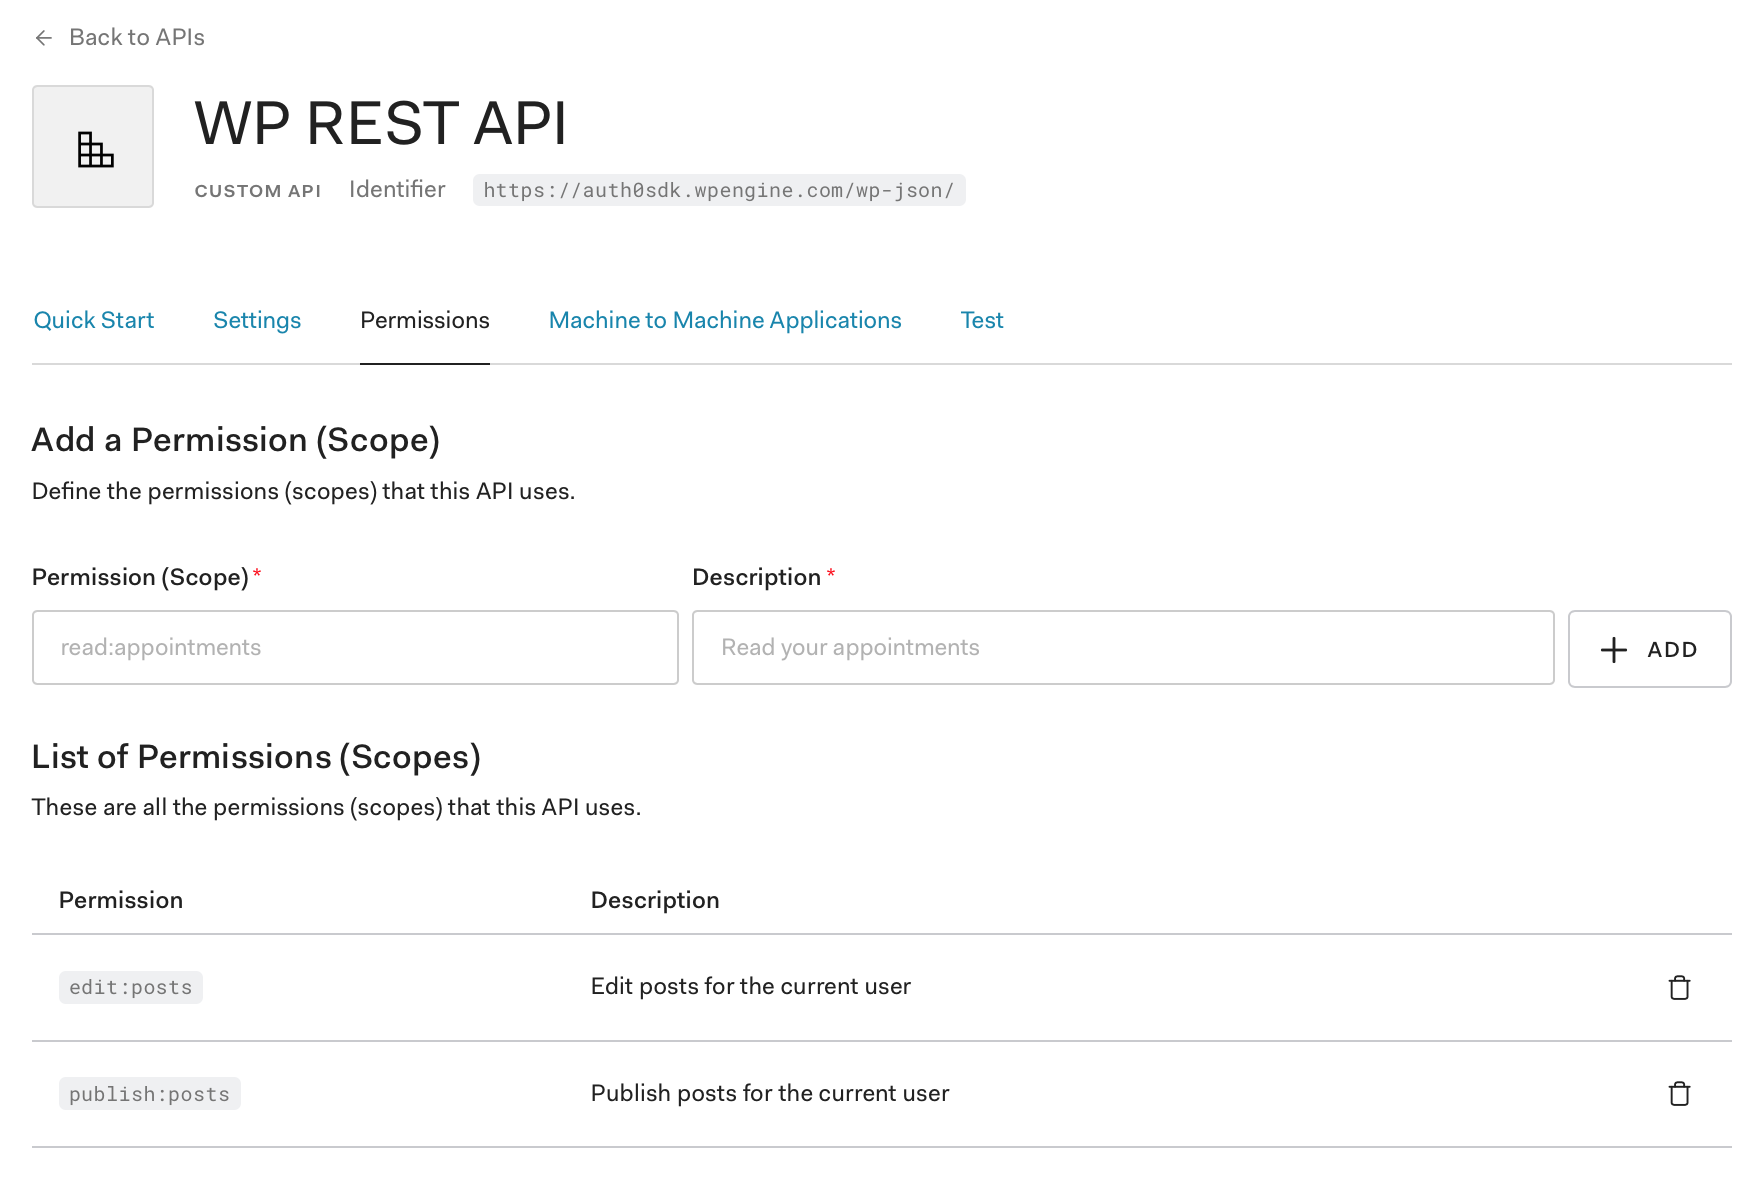
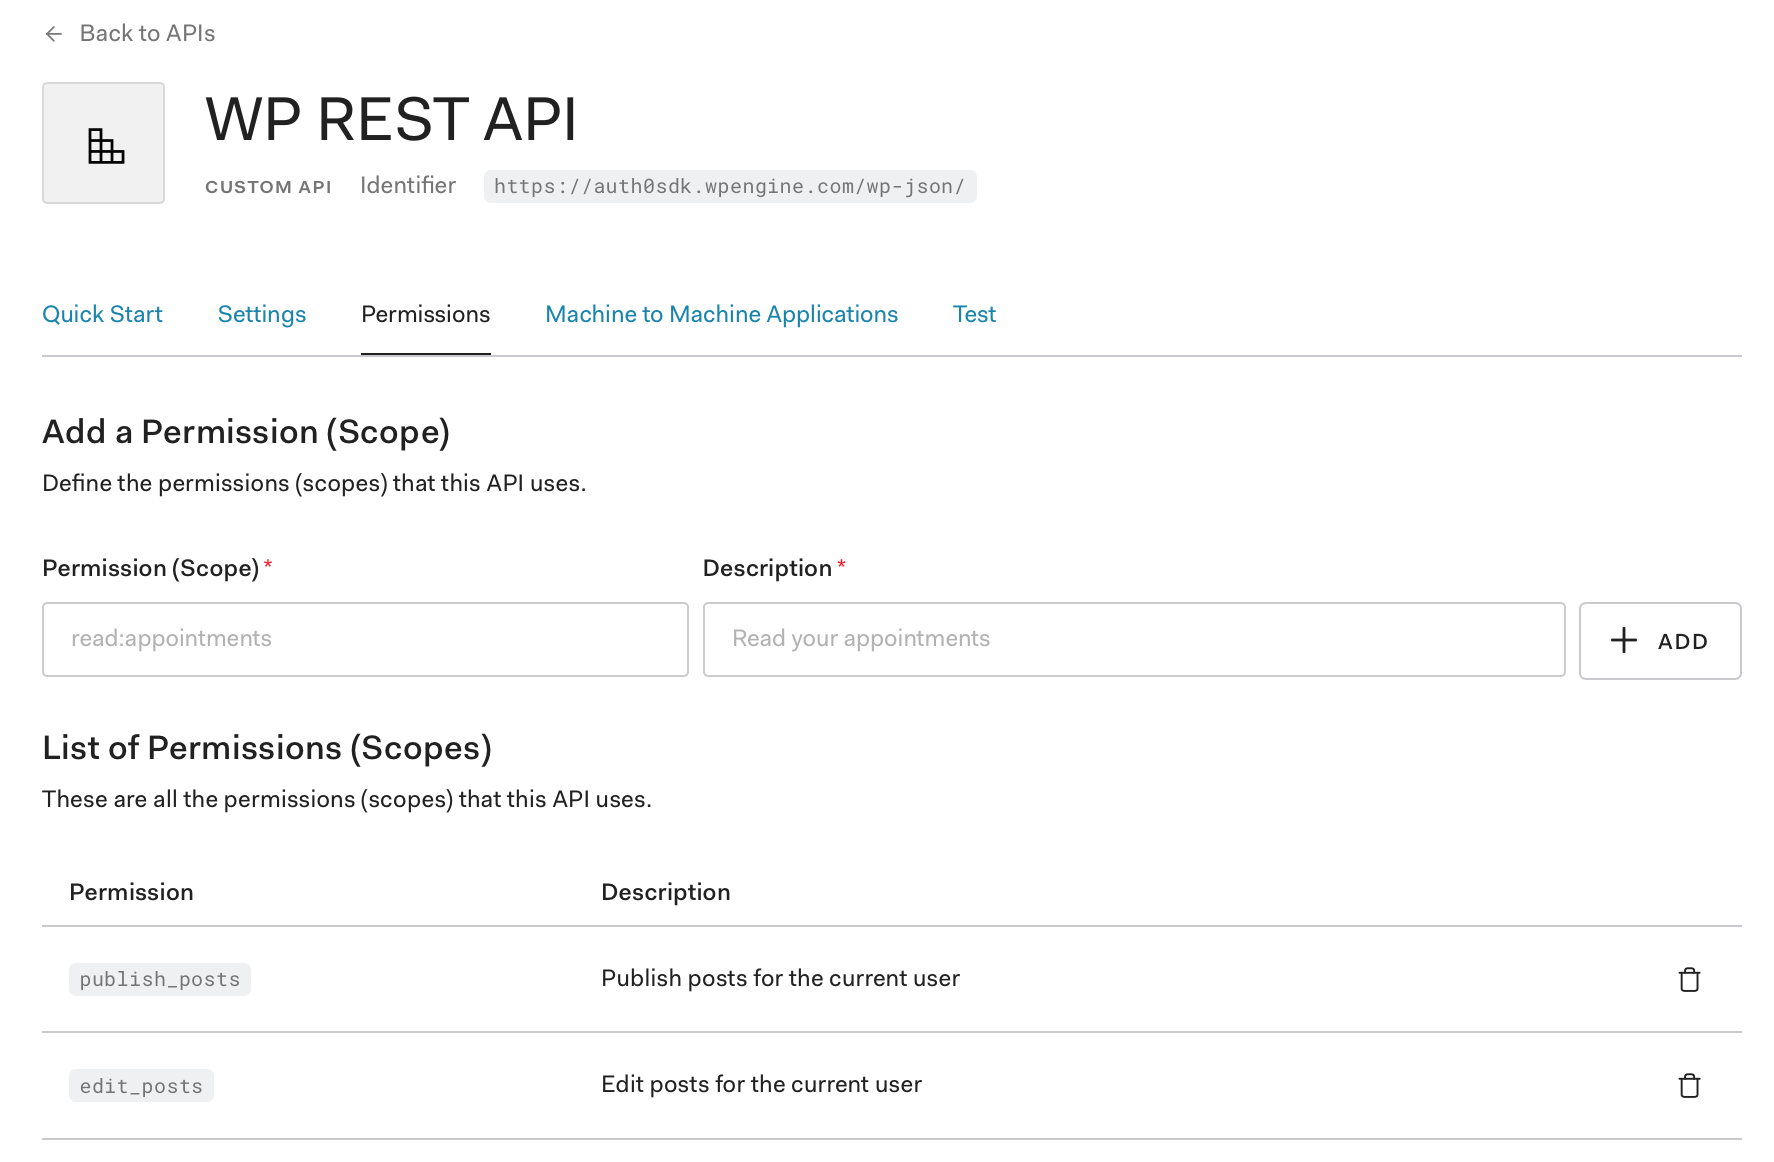
Progress on WP REST API post

diff --git a/content/post/2020/0000-00-00-auth0-plus-wp-json-api.md b/content/post/2020/0000-00-00-auth0-plus-wp-json-api.md
@@ -107,6 +107,7 @@ I'm going to reference the Auth0 documentation here so I don't duplicate helpful
 
 - **Name**: Choose something descriptive
 - **Identifer**: Use your WP API base URL like `https://auth0sdk.wpengine.com/wp-json/`
+- **Signing Algorithm**: Set this to "HS256"
 
 Once you create the API, click on the **Settings** tab, scroll down, and turn on **Allow Offline Access** (we'll talk about that later). 
 
@@ -114,8 +115,8 @@ Now click on the **Permissions** tab and we're ready to add the WordPress action
 
 In this example we're going to allow creating posts under the current user's account and editing them, so we'll add:
 
-- `publish:posts` with a description of "Publish posts for the current user"
-- `edit:posts` with a description of "Edit posts for the current user"
+- `publish_posts` with a description of "Publish posts for the current user"
+- `edit_posts` with a description of "Edit posts for the current user"
 
 ![WP REST API setup in Auth0](/_images/2020/12/wp-rest-api-auth0-setup.png)
 
@@ -145,25 +146,6 @@ We're not going to do all that, instead I'll direct you to Auth0 documentation t
 
 We do, however, need a way to get an access token so we can test that the WP REST API is being protected correctly. To do that, we'll create a throw-away testing application that can get access tokens directly and a throw-away user to simulate a login. 
 
-1. [Get a Management API token for testing](https://auth0.com/docs/tokens/management-api-access-tokens/get-management-api-access-tokens-for-testing)
-2. Click **Set API Token** on the [Management API Explorer page](https://auth0.com/docs/api/management/v2) and enter that token
-3. Go to the [Create Client](https://auth0.com/docs/api/management/v2#!/Clients/post_clients) endpoint on that page and send the following:
-
-```json
-{
-  "name": "WP REST API Testing Application",
-  "jwt_configuration": {
-    "alg": "RS256",
-    "lifetime_in_seconds": 36000
-  },
-  "token_endpoint_auth_method": "none",
-  "app_type": "regular_web",
-  "grant_types": [
-    "password"
-  ]
-}
-```
-
 {% warning %}
 The application we're creating here is for testing purposes only. If you create this application as part of the tutorial here, delete it when you're through!
 {% endwarning %}
@@ -190,7 +172,7 @@ Once this is complete, you should be able to send your email and password plus a
 ❯ curl --request POST \
   --url 'https://YOUR_DOMAIN/oauth/token' \
   --header 'content-type: application/x-www-form-urlencoded' \
-  --data 'grant_type=password&scope=publish:posts edit:posts&username=EMAIL_ADDRESS&password=PASSWORD&audience=API_IDENTIFIER&client_id=CLIENT_ID'
+  --data 'grant_type=password&scope=publish_posts edit_posts&username=EMAIL_ADDRESS&password=PASSWORD&audience=API_IDENTIFIER&client_id=CLIENT_ID'
 
 {"access_token": "eyJhbG...eyJpc3M....QyRI9Lp...",
 "scope": "edit:posts publish:posts",
@@ -201,12 +183,50 @@ Once this is complete, you should be able to send your email and password plus a
 If you're getting an error of any kind back here, check all your values in the curl command as well as your [Auth0 tenant logs](https://manage.auth0.com/#/logs).
 
 {% info %}
-What we're doing here is called a Resource Owner Password grant; we're trading a username and password for tokens. This is something that's typically reserved for legacy applications, for a number of reasons. For more information on this, see <a href="https://auth0.com/docs/videos/learn-identity-series/desktop-and-mobile-apps#wistia_dq3c4pz9lb?time=1580">this video</a>.
+What we're doing here is called a Resource Owner Password grant; we're trading a username and password for a acccess token. This is something that's typically reserved for legacy applications, for a number of very good reasons, hence the warnings. If you'd like to learn a little more about these good reasons, <a href="https://auth0.com/docs/videos/learn-identity-series/desktop-and-mobile-apps#wistia_dq3c4pz9lb?time=1580">see this video segment</a>.
 {% endinfo %}
 
 Again, all of these steps are to create an application that can generate access tokens for testing. When this system is put live, you'll need to request access tokens during login from the applications that want to call the WP REST API.
 
-## Access token validation in WP
 
-...
- 
+## Manage WP users with Auth0
+
+In order for this system to work, we'll need the users in WordPress tied to users in Auth0. Thankfully we have a solution for that, the [Login by Auth0 plugin](https://wordpress.org/plugins/auth0/). Follow the [installation instructions](https://auth0.com/docs/cms/wordpress-plugin/install-login-by-auth0) (scroll down to the **Manual setup** section to connect the site to an existing database connection like the one we used above) and test the login process to make sure authentication is working. 
+
+Once this is working, logins are handled with Auth0 and, on the first successful login/registration, the Auth0 user ID will be stored in the users metadata. We'll use this in the next part of the tutorial to make a call on a user's behalf.
+
+The last step of this configuration is making sure we always have a user in WordPress if we have one in Auth0. This will case the case where a user logs into the external application first and then needs to make changes in WordPress. Without a WordPress user, that would not be possible. 
+
+Go to **Auth0 > Settings > Advanced** tab in the WordPress admin. Turn on **User Migration Endpoints** and click **Save Changes**. You will see a migration token appear. Leave this tab open so we can use it later. 
+
+TODO: Add Rule to look for or add user
+
+
+## Access token authorization in WP
+
+We have our API modelled in our Authorization Server, Auth0, and we're able to get access tokens for that API, and users in WordPress are being managed with Auth0. Now we need to enable the API to receive these access tokens, validate them, and make decisions for protected routes. 
+
+To do all of this, we're going to use the core WordPress filter `determine_current_user` to look for a token in the request headers of a WP REST API call and decide whether or not the call should be allowed based on the call being made and in the information contained in the signed access token.
+
+The access token generated by Auth0 and sent by the external app will contain two values that will help us figure out whether this call should be accepted or not:
+
+- The Auth0 user ID in the `sub` claim
+- The permissions consented to in the `scope` claim
+
+You can see these values in the token you generated above by dropping it into [jwt.io](https://jwt.io/) and looking at the **Payload** section on the right.
+
+Now our job during authorization becomes a bit more clear:
+
+1. Check for a `sub` claim
+2. Use that value to find an associated WordPress user
+3. Make sure the permission(s) for the API call being made is contained in the `scope` claim
+4. Make sure the user is capable of the permissions necessary in the API call
+
+The first two tasks are fairly straighforward and the last one is handled by core WordPress authentication. It's the third one that needs some attention. 
+
+The WP REST API needs a user record in order to make decisions and take action. In that sense, by default, you can only *authenticate* against this API, not *authorize*. In other words, the API expects a WordPress user in order to determine whether it will allow a "create a post" call but, in this case, we only want a user that can do the actions that in in the `scope` claim in our access token. The WordPress user in question is delegating specfic actions they can take to the external application making the API call. Without checking the scopes, the external application could manage plugins, delete posts, and take actions that the WordPress user did not authorize. 
+
+So, we do need a WordPress user in the picture as we need to associate the post to someone, but we need to adjust the capabilities down. 
+
+
+- https://github.com/Tmeister/wp-api-jwt-auth
